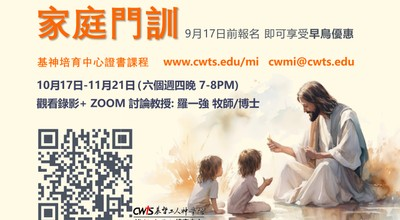
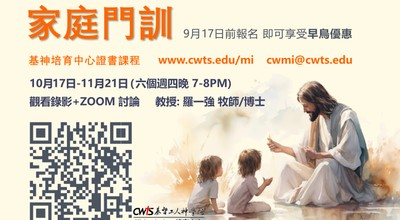
Lectureship 2024 (#162)
* Lectureship 2024

1. Lectureship 2024
2. MI poster update

* Banner on HP

1. Banner on HP
2. Registration link on lectureship page

* Update tan-lectureship.md

1. Update lectureship page (translation for plenary)

diff --git a/src/content/pages/zh/news-events/tan-lectureship.md b/src/content/pages/zh/news-events/tan-lectureship.md
@@ -15,43 +15,48 @@ thumbnail: "/images/covers/news-events/tan-lectureship.thumbnail.jpg"
 
 <div class="text-center">
 
-![Lectureship Banner](/images/lectureship/lectureship-banner.jpg)
+![Lectureship Banner](/images/lectureship/lectureship-banner.png)
 
-## 2023 年度 “陳道明牧師”神學講堂
+## 2024 年度 “陳道明牧師”神學講堂
 
-## 2023 Daniel M. Tan Lectureship
+## 2024 Daniel M. Tan Lectureship
 
-**2 堂主題信息 4 個工作坊**
+**2 堂主題信息 5 個工作坊**
 
-時間: 9/16 Saturday 9:00 am - 3:00 pm\
+時間: 9/14 Saturday 9:00 am - 3:00 pm\
 地點：基神本部\
 [1975 Concourse Dr.\
 San Jose, CA 95131](https://goo.gl/maps/Gi57SXut58CT5Ui38)
 
-**主題講員: Dr. George Guthrie** \
-**主題信息: Enduring in Ministry 在事奉中持久堅忍 （兩堂講座）**
+## [點擊報名](https://form.jotform.com/241655908248162)
+
+**主題講員:  Dr. Ray Van Neste (Union University)** \
+**主題信息: The Oversight of Souls: The Heart of Pastoral Ministry 靈魂的守護：教牧事工的核心 （兩堂講座）**
 
 </div>
 
 ### 講員簡介:
 
-Dr. George Guthrie 現擔任 Regent College 新約教授，是一位備受尊敬和喜愛的講師。他曾先後獲得文學學士（Union 大學），道學碩士（西南浸信會神學院），神學碩士（Trinity 福音神學院），哲學博士（西南浸信會神學院）。在北美以及東亞、英國、德國、南非和以色列等地教授過課程。在 2018 年加入Regent College 學院之前，Dr.Guthrie 在 Union University in Jackson 任教 28 年。作為《希伯來書》的權威專家，Dr. Guthrie 研究成果被出版為《希伯來書的結構：一種文本語言學分析》（Leiden/New York: E.J. Brill, 1994）。他還出版了《希伯來書》（Zondervan, 1998; 2002, 2007）、《雅各書》（Zondervan, 2006）和《哥林多後書》（Baker, 2015）的註釋，以及眾多文章、書籍章節和書評。也曾在 ESV、CSV、NLT 和 HCSB 等譯本的翻譯工作中擔任顧問。Dr. Guthrie 熱心於裝備教會領袖和信徒們，如何更有效地閱讀聖經和活出真理。為此，他出版了一系列旨在幫助教會更好地理解和應用聖經的著作，包括《讀者指南聖經》（LifeWay, 2011）、《閱讀上帝的故事：一本按時間順序的每日聖經》（Broadman & Holman, 2011）、《活出聖經：你的理解和生活上帝的話語指南》（Broadman & Holman, 2011）和《CSB 按天順序讀經聖經》（Holman, 2018）。Dr. Guthrie 夫婦現居住在不列顛哥倫比亞省， 並忠心的以教導和愛心接待肢體來事奉 Regent College。他們喜好園藝和釣魚。他們有兩個已經成年的孩子住在田納西州。
+Dr.Ray Van Neste在University of Aberdeen (2002)獲得博士學位。自2001年起在Union大學任職，現擔任聖經研究學教授、神學與宣教學院主任、大學事工副主席。他在聖經研究、牧師事工和教會歷史等領域發表了書籍和學術論文。他是Cohesion and Structure in the Pastoral Epistles (T&T Clark, International ，January 2005) 的作者，並參與了許多著書的編輯，例如最新的一本：How to Be a Pastor: Wisdom from the Past for Pastors in the Present (作者：Theodore L. Cuyler，Wipf and Stock ，January 2024). \
+Dr.Ray經常在當地教會參與講道和教導的工作，並曾在田納西州、威斯康辛州和蘇格蘭的浸信會教會擔任牧師或其他職務。 Dr.Ray現任[Eagle Projects International](https://www.eagleprojects.com/) 顧問委員會委員，他主持網站[Pastoral Epistles](https://pastoralepistles.com/)，該網站收錄了這個研究小組的事工情況以及對「教牧書信」的相關研究成果。
 
-**工作坊一 ：蔡明謀 牧師/ 博士（基督工人神學院 院長/新約副教授）** \
-保羅書信中的信心與堅毅：在教導中取得平衡 \
-“Faith and Perseverance in Paul: Achieving Balance in Our Teachings”
+**工作坊一 ：賴可中 牧師/ 博士（基督工人神學院 副院長/新約副教授）** \
+信徒的成長：牧人的首要挑戰 \
+“Believers’ Growth: The Shepherd’s Primary Challenge”
 
-**工作坊二： 賴可中 牧師/博士（基督工人神學院 副院長/新約副教授）** \
-事奉倦怠與重新得力 \
-“Ministry Fatigue and Renewing Strength”
+**工作坊二： 池峈鋒博士 (基督工人神學院 教務主任/系統神學副教授)** \
+神學性的聖經講道 \
+“Theological Preaching of Scripture (TPS)”
 
-**工作坊三： 陳聲漢博士（基督工人神學院神學碩士科主任，舊約教授）** \
-知識是叫人自高自大 (林前 8:1)? 《屬靈人》、《水牛神學》和'野豬’之間關於知識與理性的對話 \
-“Knowledge Puffs Up (1 Cor 8:1)? A Conversation between _A Spiritual Man_, _Water Buffalo Theology_, and a ‘Wild Boar’ on Knowledge and the Mind”
+**工作坊三： 歐雨虹博士 (基督工人神學院 新約助理教授)** \
+從耶穌學習如何牧養情緒 \
+“Learning from Jesus how to Disciple Emotions”
 
-**工作坊四： 劉浩宇博士（基督工人神學院 實踐神學副教授）** \
-懺，憶，休：跑得更遠的節奏 \
-“Repent, Remember, & Rest: Rhythms for Running the Distance”
+**工作坊四： (English only): Rev. Joey Wang (Mercy Hill Church, Elder/Associate Pastor)** \
+"Cultural & Generational Considerations in Pastoral Ministry (English)" 
+
+**工作坊五：  陳聲漢博士 (金門神學院舊約教授)** \
+著者談: Wonders from Your Law: Nexus Passages and the Promise of an Exegetical Intertextual Old Testament Theology (InterVarsity Press, 2024)
 
 ### 當天的具體時間安排:
 
@@ -71,4 +76,4 @@ Dr. George Guthrie 現擔任 Regent College 新約教授，是一位備受尊敬
 
 3:00 pm 閉幕
 
-\* 除 Dr. Guthrie 的主題信息（附有同步翻譯）與陳聲漢博士的工作坊為英文以外，其他工作坊均為國語。
+\* 除 Dr. Ray Van Neste 的主題信息(將提供中文翻譯)與Rev. Joey Wang的工作坊為英文以外，其他工作坊均為國語。
